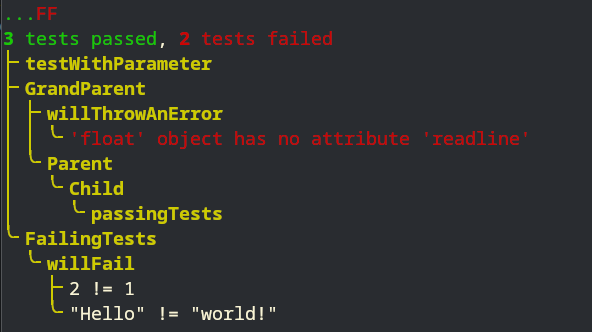
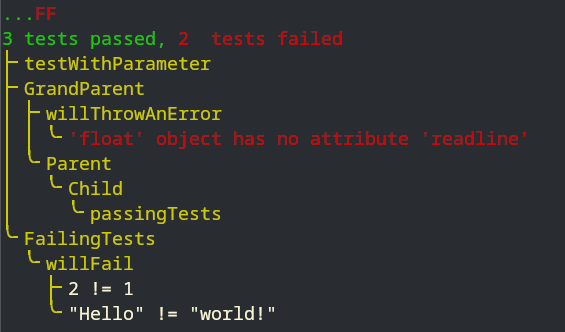
colors, pipe style

diff --git a/pyTesting.py b/pyTesting.py
@@ -21,14 +21,51 @@ class Testing :
     Testing.display() display the results of all the tests.
     """
 
+    # Variables
     _messages = { }
     _current_function_path = [ ]
     _total_tests = 0
     _failed_tests = 0
-    _display_results = True
-    _catch_error = True
 
-    def displayLiveResults( display : bool ) -> None :
+    # Parameters
+    _display_results = True
+    _catch_errors = True
+    _display_starting_char = ''
+    _display_color = True
+    _display_style = 0
+
+    # Constants
+    _colors = [
+            "\033[33m", # Yellow
+            "\033[32m", # Green
+            "\033[31m"  # Red
+    ]
+    _pipes = [
+            [
+                '\u2570',
+                '\u2574',
+                '\u251C',
+                '\u2502'
+            ],
+            [
+                '\u2514'
+            ],
+            [
+                '\u255A',
+                '\u2550',
+                '\u2560',
+                '\u2551'
+            ],
+            [
+                '-',
+                ' ',
+                '-',
+                '|'
+            ]
+    ]
+
+    @staticmethod
+    def setDisplayLiveResults( display : bool ) -> None :
 
         """
         Change to wether or not display result of each tests when Testing.test()
@@ -37,7 +74,7 @@ class Testing :
         Default: True
 
         In :
-            display, bool : True will display the result, False hide them
+            display, bool : True will display the result, False hide them.
 
         Out :
             None
@@ -46,7 +83,8 @@ class Testing :
         Testing._display_results = display
         return None
 
-    def catchErrors( catch : bool ) -> None :
+    @staticmethod
+    def setCatchErrors( catch : bool ) -> None :
 
         """
         Change to wether or not catch errors in referenced testing functions.
@@ -55,15 +93,76 @@ class Testing :
         Default: True
 
         In :
-            catch, bool : True will catch errors, False will not
+            catch, bool : True will catch errors, False will not.
 
         Out :
             None
         """
 
-        Testing._catch_error = catch
+        Testing._catch_errors = catch
         return None
 
+    @staticmethod
+    def setDisplayStartingChar( char : str ) -> None :
+
+        """
+        Define the starting character(s) of the tree-view created when
+        displayed with Testing.display().
+
+        Default: ''
+
+        In :
+            char, str : The new starting character.
+
+        Out :
+            None
+        """
+
+        Testing._display_starting_char = char
+        return None
+
+    @staticmethod
+    def setDisplayColors( display : bool ) -> None :
+
+        """
+        Change to wether or not display ANSI colors.
+
+        Default: True
+
+        In :
+            display, bool : True will display color, False won't.
+
+        Out :
+            None
+        """
+
+        Testing._display_color = display
+        return None
+
+    @staticmethod
+    def setDisplayStyle( display : int ) -> None :
+
+        """
+        Change the style of the tree-view.
+        0 uses round pipes,
+        1 uses square pipes,
+        2 uses hollow pipes and
+        3 uses ASCII.
+
+        Default: True
+
+        In :
+            display, bool : True will display color, False won't.
+
+        Out :
+            None
+        """
+
+        if display < len( Testing._pipes ) :
+            Testing._display_style = display
+        return None
+
+    @staticmethod
     def test( valid : bool, message : str ) -> bool :
 
         """
@@ -74,19 +173,64 @@ class Testing :
             valid, bool : Statement to be tested.
             message, str : Message if the test fail.
         Out :
-            bool : Tested statement
+            bool : Tested statement.
         """
 
-        res = "2m." # Green + '.'
+        res = Testing._colorize( ".", 1 )
         if not valid :
-            res = "1mF" # Red + 'F'
-            Testing._addMessage( Testing._current_function_path, Testing._messages, message )
+            res = Testing._colorize( "F", 2 )
+            Testing._addMessage( Testing._current_function_path,
+                                Testing._messages, message )
             Testing._failed_tests += 1
         Testing._total_tests += 1
         if Testing._display_results :
-            print( f"\033[3{ res }\033[0m", end="" )
+            print( res, end="" )
         return valid
 
+    @staticmethod
+    def _colorize( text: str, color: int ) -> str :
+
+        """
+        Colorize the given text with the given color indice in the
+        _colors list.
+        If _display_color if False or the indice is wrong, it will
+        return the base text.
+
+        In :
+            text, str : Text to colorize.
+            color, int : Color indice in _colors.
+
+        Out :
+            str : Colorized text.
+        """
+
+        if ( not Testing._display_color ) or \
+            color > len( Testing._colors ) or color < 0:
+            return text
+        return Testing._colors[ color ] + text + "\033[0m"
+
+    @staticmethod
+    def _get_pipe( indice : int ) -> chr :
+        """
+        Return the correct pipe given an indice. If the pipe does not
+        exists in the current style, it will return the pipe in the
+        default style. If the indice does not correspond to any pipe,
+        it will return an empty char.
+
+        In:
+            indice, int : Indice of the pipe
+
+        Out:
+            chr: The resulting pipe
+        """
+
+        if indice >= len( Testing._pipes[ 0 ] ) :
+            return ''
+        if indice >= len( Testing._pipes[ Testing._display_style ] ):
+            return Testing._pipes[ 0 ][ indice ]
+        return Testing._pipes[ Testing._display_style ][ indice ]
+
+    @staticmethod
     def _addHierarchy( hierarchy : list, tree : dict ) -> None :
 
         """
@@ -108,6 +252,7 @@ class Testing :
             Testing._addHierarchy( hierarchy[1:], tree[ hierarchy[0] ] )
         return None
 
+    @staticmethod
     def _addMessage( hierarchy : list, tree : dict, message : str ) -> None :
 
         """
@@ -126,10 +271,12 @@ class Testing :
             tree[ hierarchy[0] ].append( message )
         else:
             if not hierarchy[0] in tree.keys() :
-                raise Exception( f"Testing used out of the context of a referenced function! ({ hierarchy })" )
+                raise Exception( "Testing used out of the context of a"
+                                f"referenced function! ({ hierarchy })" )
             Testing._addMessage( hierarchy[1:], tree[hierarchy[0]], message )
         return None
 
+    @staticmethod
     def _displayHierarchy( tree : dict, start : str ) -> str :
 
         """
@@ -140,7 +287,7 @@ class Testing :
             start, str : Characters to add before an entry.
 
         Out :
-            str : The resulting text
+            str : The resulting text.
         """
 
         res = ""
@@ -148,33 +295,34 @@ class Testing :
             last = len( tree ) - 1
             for i in range( 0, last + 1 ) :
                 if ( i == last ):
-                    res += f"\033[33m{ start }\u2570\u2574\033[0m"
+                    res += Testing._colorize( f"{ start }{ Testing._get_pipe( 0 ) }{ Testing._get_pipe( 1 ) }", 0 )
                 else:
-                    res += f"\033[33m{ start }\u251C\u2574\033[0m"
+                    res += Testing._colorize( f"{ start }{ Testing._get_pipe( 2 ) }{ Testing._get_pipe( 1 ) }", 0 )
                 res += tree[i] + '\n'
             return res
         else :
             keys = list( tree.keys() )
             last = len( keys ) - 1
-            start_c = '\u2502'
+            start_c = Testing._get_pipe( 3 )
             for i in range( 0, last + 1 ) :
                 if ( i == last ) :
-                    res += f"\033[33m{ start }\u2570\u2574\033[0m"
+                    res += Testing._colorize( f"{ start }{ Testing._get_pipe( 0 ) }{ Testing._get_pipe( 1 ) }", 0 )
                     start_c = ' '
                 else :
-                    res += f"\033[33m{ start }\u251C\u2574\033[0m"
-                res += f"\033[1m\033[33m{ keys[i] }\033[0m\n"
+                    res += Testing._colorize( f"{ start }{ Testing._get_pipe( 2 ) }{ Testing._get_pipe( 1 ) }", 0 )
+                res += Testing._colorize( f"{ keys[i] }\n", 0 )
                 res += Testing._displayHierarchy( tree[ keys[i] ], f"{ start }{ start_c } " )
             return res
 
+    @staticmethod
     def reference(func : type) -> None :
 
         """
-        Reference a function in the _messages{} disctionnary
+        Reference a function in the _messages dictionnary
         and execute it.
 
         In :
-            func, type : Test function to reference
+            func, type : Test function to reference.
         Out :
             None
         """
@@ -182,14 +330,16 @@ class Testing :
         def wrapper( *args, **kwargs ) :
             Testing._current_function_path = func.__qualname__.split( "." )
             Testing._addHierarchy( Testing._current_function_path, Testing._messages )
-            if not Testing._catch_error:
+            if not Testing._catch_errors:
                 return func( *args, **kwargs )
             try:
                 return func( *args, **kwargs )
             except Exception as e:
-                Testing._addMessage( Testing._current_function_path, Testing._messages, '\033[31m' + e.__str__() + '\033[0m' )
+                Testing._addMessage( Testing._current_function_path, Testing._messages,
+                                    Testing._colorize( e.__str__(), 2 ) )
         return wrapper
 
+    @staticmethod
     def display( ) -> None :
 
         """
@@ -202,9 +352,8 @@ class Testing :
         """
 
         print(
-            f"\n\033[32m\033[1m{ Testing._total_tests - Testing._failed_tests }"
-            f"\033[0m\033[32m tests passed\033[0m, \033[31m\033[1m{ Testing._failed_tests }"
-            f"\033[0m\033[31m tests failed\033[0m\n{ Testing._displayHierarchy( Testing._messages, '' ) }"
+            Testing._colorize( f"\n{ Testing._total_tests - Testing._failed_tests } tests passed, ", 1 ) +
+            Testing._colorize( f"{ Testing._failed_tests }  tests failed\n", 2 ) +
+            Testing._displayHierarchy( Testing._messages, Testing._display_starting_char )
         )
         return None
-

diff --git a/exemple_tests.py b/exemple_tests.py
@@ -6,6 +6,8 @@ def pow2(a):
 def squareRoot(a):
     return a ** 0.5
 
+Testing.setDisplayColors(True)
+
 @Testing.reference
 def testWithParameter(a):
     Testing.test( a == 1,
@@ -54,5 +56,7 @@ testWithParameter(1)
 GrandParent.willThrowAnError()
 GrandParent.Parent.Child.passingTests()
 FailingTests.willFail()
+
+Testing.setDisplayStyle(5)
 
 Testing.display()

diff --git a/README.md b/README.md
@@ -47,8 +47,11 @@ Testing.display()
 
 You can modify some behaviors of pyTesting.
 ```py
-Testing.displayLiveResults(True | False) # Display / Hide the '.'/'F' printed while testing, default is True
-Testing.catchErrors(True | False) # Catch errors in referenced test functions, default is True
+Testing.setDisplayLiveResults(True | False) # Display / Hide the '.'/'F' printed while testing, default is True
+Testing.setCatchErrors(True | False) # Catch errors in referenced test functions, default is True
+Testing.setDisplayStartingChar('>') # Set the starting character of the tree-view
+Testing.setDisplayColors(True | False) # Display or not colors
+Testing.setDisplayStyle(0 | 1 | 2 | 3) # Style of the pipes to use
 ```
 
 See `example_tests.py` for a "full" example of `pyTesting` usage.
